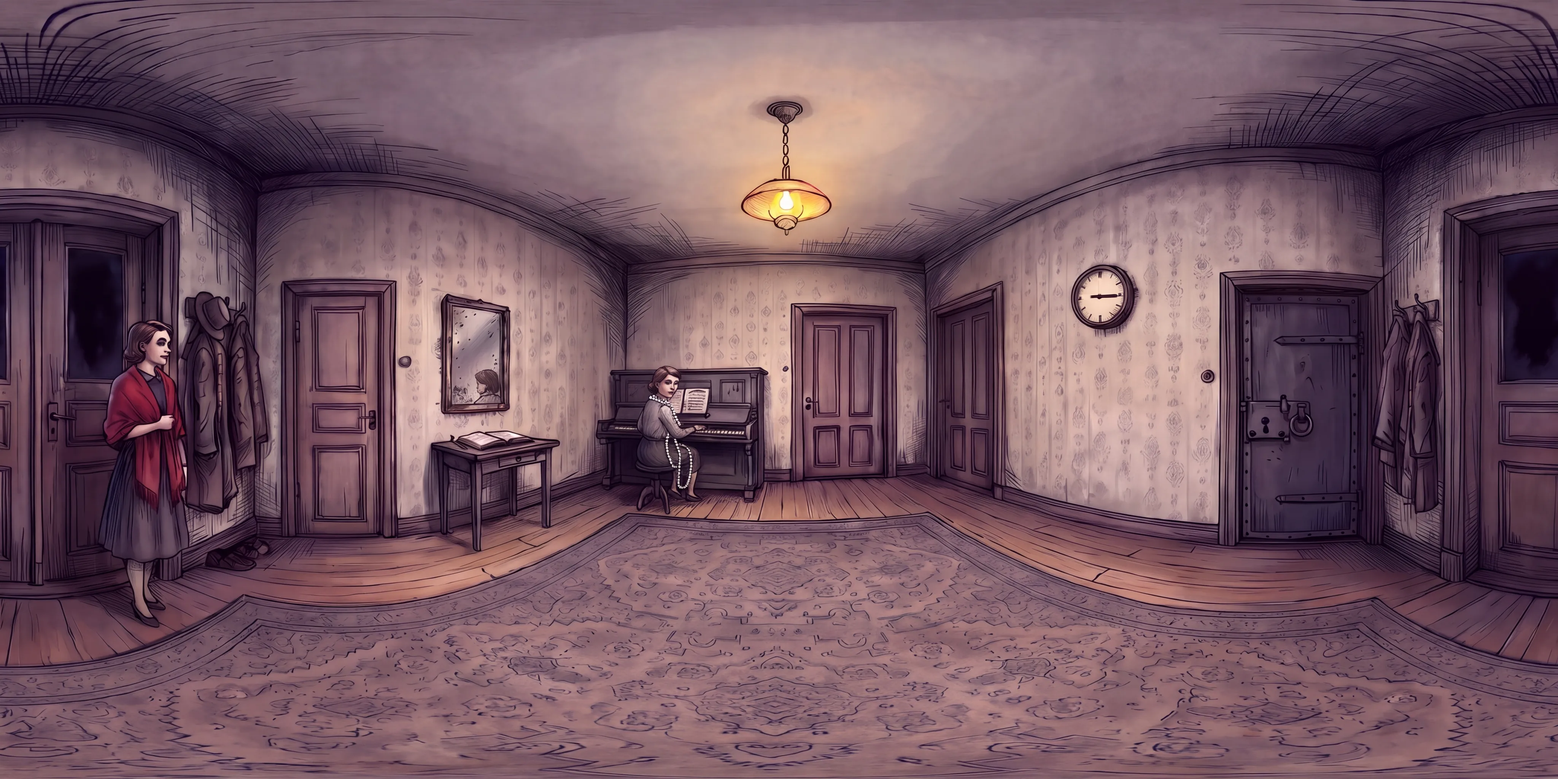
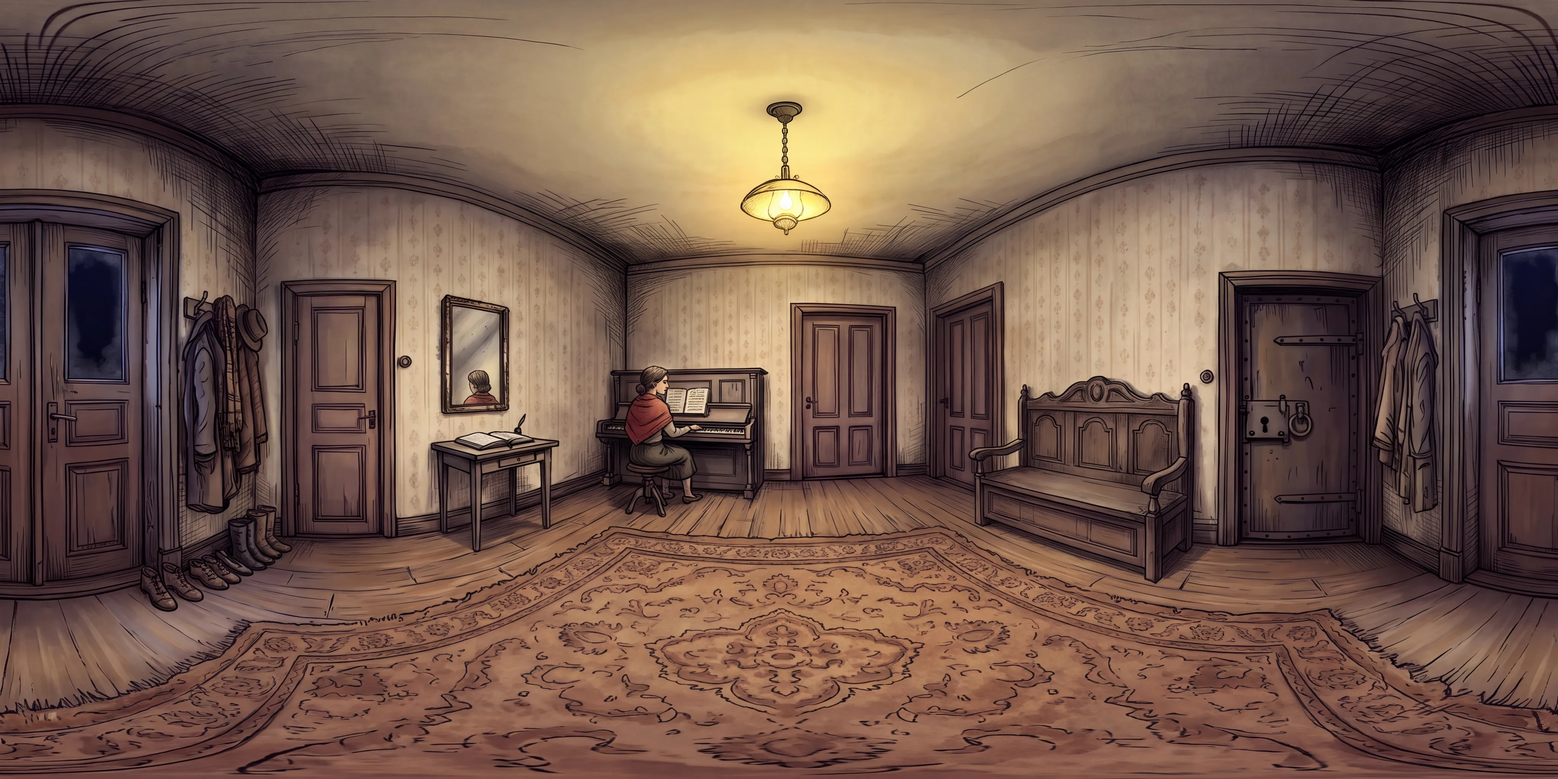
En gäst i varje minnesrum, inga klockor utom golvuret, och hallen som foto
Salongen blir ett fjärde rum i minnet. Kvinnan i röd sjal spelar piano i
hallen och kvinnan med pärlhalsband sitter i salongen. Klockorna tas bort
ur minnet utom golvuret, eftersom Gemini inte kan rita klockor. Hallen får
en hallsoffa mellan köksdörren och källardörren (Jonas 2026-11-20).

Hallen finns nu i tusch och foto, i nuet och i minnet. De tidigare
stilproven tas bort ur testsidan.

Claude-Session: https://claude.ai/code/session_01X82C4CqheV7jTaXH9cVkV3

diff --git a/supabase/functions/game/flashback.test.ts b/supabase/functions/game/flashback.test.ts
@@ -123,10 +123,10 @@ test('sparade rum läses, och det gamla formatet med gäster ersätts', () => {
 
 const FULL = getMission('den-femte-gasten')!;
 
-test('i Den femte gästen minns tre rum, så två spelare ser alla och tio delar dem fyra, tre och tre (Jonas 2026-11-20)', () => {
+test('i Den femte gästen minns fyra rum, så två spelare ser alla och tio delar dem tre, tre, två och två (Jonas 2026-11-20)', () => {
   const step = FULL.steps.find((candidate) => candidate.id === 'rummen-minns') as FlashbackStep;
   const places = listPlaces(FULL);
-  assert.deepEqual(step.rooms.map((room) => room.place), ['B', 'C', 'D']);
+  assert.deepEqual(step.rooms.map((room) => room.place), ['B', 'F', 'C', 'D']);
   const playAll = (participantIds: string[], order: [string, string][]) => {
     const started = turnHands({ flashback: startFlashback(step), step, minutes: NINE_FIFTEEN, nowMs: 0 });
     assert.ok('flashback' in started);
@@ -138,15 +138,15 @@ test('i Den femte gästen minns tre rum, så två spelare ser alla och tio delar
     }
     return flashback;
   };
-  const two = playAll(['p0', 'p1'], [['p0', 'B'], ['p1', 'D'], ['p0', 'C']]);
-  assert.deepEqual(two.seenPlaces, ['B', 'D', 'C']);
+  const two = playAll(['p0', 'p1'], [['p0', 'B'], ['p1', 'D'], ['p0', 'C'], ['p1', 'F']]);
+  assert.deepEqual(two.seenPlaces, ['B', 'D', 'C', 'F']);
   assert.equal(describeFlashback({ flashback: two, step, places, viewerId: 'p1', participantIds: ['p0', 'p1'] }).choice, 'done');
   const ten = Array.from({ length: 10 }, (_, index) => `p${index}`);
-  const full = playAll(ten, ten.map((playerId, index) => [playerId, (['B', 'C', 'D'] as const)[index % 3]]));
+  const full = playAll(ten, ten.map((playerId, index) => [playerId, (['B', 'F', 'C', 'D'] as const)[index % 4]]));
   const hall = describeFlashback({ flashback: full, step, places, viewerId: 'p0', participantIds: ten });
-  // Fyra i hallen ser en bit var, så att kvinnan vid dörren och kvinnan vid pianot hamnar hos olika spelare.
+  // Tre i hallen ser en bit var av hallens tre.
   assert.deepEqual(hall.myRooms.map((room) => [room.place.name, room.pieces.length]), [['Hallen', 1]]);
-  assert.equal(full.choices.filter((choice) => choice.place === 'B').length, 4);
+  assert.equal(full.choices.filter((choice) => choice.place === 'B').length, 3);
 });
 const MISSION: Mission = { ...FULL, steps: [STEP, { id: 'slut', type: 'scene', text: 'Slut.' }] };
 const PLAYERS: PlayerRecord[] = ['Anna', 'Bo', 'Cia'].map((name, index) => ({ id: `p${index}`, gameId: 'g', userId: `u${index}`, name, isLeader: index === 0, joinedAtMs: index }));

diff --git a/supabase/functions/game/reading.test.ts b/supabase/functions/game/reading.test.ts
@@ -26,11 +26,11 @@ function start(): GameState {
   return readState(startGame({ state: createInitialState(), mission: MISSION, players: PLAYERS, starter: ANNA, leaderPlays: true, minutes: 60, nowMs: 0 }));
 }
 
-/** Gruppen ställer golvuret, ser alla tre rummen och låter minnet blekna. */
+/** Gruppen ställer golvuret, ser alla fyra rummen och låter minnet blekna. Anna tar salongen som fjärde rum. */
 function seeTheMemory(state: GameState): GameState {
   let next = readState(walkThroughDoor({ state, mission: MISSION, player: ANNA, placeId: 'F', nowMs: 0 }));
   next = readState(turnClock({ state: next, mission: MISSION, players: PLAYERS, player: ANNA, minutes: NINE_FIFTEEN, nowMs: 0 }));
-  for (const [player, placeId] of [[ANNA, 'B'], [BO, 'C'], [CIA, 'D']] as const) {
+  for (const [player, placeId] of [[ANNA, 'B'], [BO, 'C'], [CIA, 'D'], [ANNA, 'F']] as const) {
     next = readState(chooseFlashbackRoom({ state: next, mission: MISSION, players: PLAYERS, player, placeId, nowMs: 0 }));
   }
   return readState(fadeFlashback({ state: next, mission: MISSION, players: PLAYERS, nowMs: 3 * MINUTE_MS }));

diff --git a/src/testsida/roundImageCard.ts b/src/testsida/roundImageCard.ts
@@ -17,11 +17,8 @@ import type { Log, Report } from './report.ts';
 const ROUND_IMAGES = [
   { name: 'Hallen, tusch (Gemini)', file: 'rundbilder/hallen-tusch.webp' },
   { name: 'Hallen, tusch, minnet 1962 (Gemini)', file: 'rundbilder/hallen-tusch-1962.webp' },
-  { name: 'Hallen, målad illustration (Gemini)', file: 'rundbilder/hallen-malad.webp' },
-  { name: 'Hallen, foto i natt (Gemini)', file: 'rundbilder/hallen-natt.webp' },
-  { name: 'Hallen, målning (Gemini)', file: 'rundbilder/hallen-malning.webp' },
-  { name: 'Hallen, 60-talsfoto (Gemini)', file: 'rundbilder/hallen-sextiotal.webp' },
-  { name: 'Hallen, foto i dagsljus (Gemini)', file: 'rundbilder/hallen-foto.webp' },
+  { name: 'Hallen, foto (Gemini)', file: 'rundbilder/hallen-foto.webp' },
+  { name: 'Hallen, foto, minnet 1962 (Gemini)', file: 'rundbilder/hallen-foto-1962.webp' },
   { name: 'Största källaren (Gemini)', file: 'rundbilder/kallare-storst.webp' },
   { name: 'Stora källaren (Gemini)', file: 'rundbilder/kallare-stor.webp' },
   { name: 'Lilla källaren (Gemini)', file: 'rundbilder/kallare.webp' },

diff --git a/src/config.ts b/src/config.ts
@@ -6,4 +6,4 @@ export const SUPABASE_PUBLIC_KEY = 'sb_publishable_aa--NTfRkU6vqDZUqgXMPw_o2LBJh
 
 // Visas på sidan och i felsökningsloggen, så att det syns om mobilen kör en
 // gammal sida ur cachen. Höjs vid varje ändring av webbsidan.
-export const VERSION = '2026-11-20.74';
+export const VERSION = '2026-11-20.75';

diff --git a/docs/koncept.md b/docs/koncept.md
@@ -264,7 +264,7 @@ Det är de enda tillfällena då gruppen splittras på riktigt, och de blir star
 
 Huset är en rektangel med en våning och källare. Övervåningen är borttagen (Jonas 2026-11-20). Ytterdörren leder in i hallen, mitt på husets framsida. Rakt fram ligger salongen, till vänster sovrummet och till höger köket. Sovrummet var tidigare ett bibliotek, och byrån med tidningsurklippen står kvar där (Jonas 2026-11-20). Källaren ligger under huset, med det dolda rummet bakom.
 
-- **Hallen.** Dörren till salongen sitter längst till höger i hallens bortre vägg, med pianot till vänster om den. Dörren till köket sitter strax till höger om salongsdörren. Dörren till sovrummet sitter långt ner på vänstra väggen. I högra hörnet vid ytterväggen ligger källartrappan, bakom den låsta källardörren (Jonas 2026-11-18). Väggen vid källardörren går hela vägen från köket ner till ytterväggen, och dörren sitter längst ner i den (Jonas 2026-11-20). Trappan fyller utrymmet mellan väggen, köket och ytterväggen och är en vinkeltrappa: den börjar längst ner vid källardörren, går längs ytterväggen och svänger i hörnet (Jonas 2026-11-20). Trappan upp till övervåningen är borttagen (Jonas 2026-11-20).
+- **Hallen.** Dörren till salongen sitter längst till höger i hallens bortre vägg, med pianot till vänster om den. Dörren till köket sitter strax till höger om salongsdörren. Dörren till sovrummet sitter långt ner på vänstra väggen. I högra hörnet vid ytterväggen ligger källartrappan, bakom den låsta källardörren (Jonas 2026-11-18). Väggen vid källardörren går hela vägen från köket ner till ytterväggen, och dörren sitter längst ner i den (Jonas 2026-11-20). Trappan fyller utrymmet mellan väggen, köket och ytterväggen och är en vinkeltrappa: den börjar längst ner vid källardörren, går längs ytterväggen och svänger i hörnet (Jonas 2026-11-20). Trappan upp till övervåningen är borttagen (Jonas 2026-11-20). Mellan köksdörren och källardörren står en hallsoffa i mörkt trä med hög rygg. Den har ingen funktion i spelet (Jonas 2026-11-20).
 - **Salongen i mitten.** Alla rum nås från hallen. Salongen har dessutom en dörr till sovrummet och en till köket (Jonas 2026-11-20). Dörren till sovrummet sitter i salongens vänstra vägg och dörren till köket i den högra, båda längst bort från hallen (Jonas 2026-11-20).
 - **Dörrarna i rundbilderna.** I rundbilderna är alla rum kvadratiska, så att varje vägg blir en fjärdedel av varvet (Jonas 2026-11-18). Dörrarna ska sitta på rätt ställe i rummen enligt planlösningen, och i beskrivningen till Gemini anges varje dörr med vägg och läge, till exempel vänstra väggen nära hörnet mot ytterväggen (Jonas 2026-11-18). Gemini följer inte alltid beskrivningen exakt, så de tryckbara dörrarna placeras där de hamnade i bilden, och en bild med en dörr på fel vägg tas fram på nytt.
 
@@ -275,7 +275,7 @@ Varje plats finns i två tider: som den är nu och som den var kvällen 1962 (Jo
 - **Nu.** När en spelare går till en plats ser hon platsen som den är i kväll, med det som gruppen har hittat där. Det som en gång har hittats ligger kvar och går att se igen, till exempel urklippen i sovrummet (se Textvyn och rumsvyn nedan). Gruppen går fortfarande igenom uppgifterna i ordning, men behöver inte minnas allt.
 - **Klockan.** Alla klockor i huset stannade kvart över nio, när ljuset slocknade 1962. Det finns en enda klocka att vrida, golvuret i salongen (Jonas 2026-11-17). Den som står vid det drar visarna med fingret. Att vrida mobilen som en ratt prövades men togs bort (Jonas 2026-11-18). Visarna hakar i var femte minut, så att det går att träffa rätt. Står de på 21.15 minns hela huset, för alla spelare samtidigt, och alla platser visas som de var då. Vrids de till vilken annan tid som helst är huset tillbaka i nu (Jonas 2026-11-17). Golvuret står i salongens lista när någon har hittat det, och visarna går att vrida när som helst, också innan gruppen har läst urklippen och efter att uppgiften är klar. Står de på 21.15 innan berättelsen har kommit dit minns huset ändå, och uppgiften räknas (Jonas 2026-11-18). Efter att uppgiften är klar flyttas bara visarna.
 - **Minnet syns.** Minnesbilden är sepiatonad, kornig och flimrar lite, med en rad överst som säger platsen och tiden. Alla spelare ser att huset minns, var de än är.
-- **Ett rum var i minnet.** När huset minns väljer varje spelare vilket rum hon ska vara i, bland dem som finns kvar, och hon stannar där tills minnet bleknar (Jonas 2026-11-17). Nästa gång väljer alla på nytt, så att spelarna kan byta rum med varandra. Är spelarna fler än rummen fylls rummen jämnt: ett rum går bara att välja om inget annat rum har färre spelare i sig. Med sju spelare och tre rum blir det alltså tre i ett av rummen och två i de andra, aldrig fyra i ett (Jonas 2026-11-17, rummen Jonas 2026-11-20). Är spelarna färre än rummen tar någon ett tomt rum till när alla har valt, och ser båda rummen i samma minne. Så ser gruppen alla rum på en gång även med två spelare (Jonas 2026-11-18).
+- **Ett rum var i minnet.** När huset minns väljer varje spelare vilket rum hon ska vara i, bland dem som finns kvar, och hon stannar där tills minnet bleknar (Jonas 2026-11-17). Nästa gång väljer alla på nytt, så att spelarna kan byta rum med varandra. Är spelarna fler än rummen fylls rummen jämnt: ett rum går bara att välja om inget annat rum har färre spelare i sig. Med sju spelare och fyra rum blir det alltså två i tre av rummen och en i det fjärde, aldrig tre i ett (Jonas 2026-11-17, rummen Jonas 2026-11-20). Är spelarna färre än rummen tar någon ett tomt rum till när alla har valt, och ser båda rummen i samma minne. Så ser gruppen alla rum på en gång även med två spelare (Jonas 2026-11-18).
 - **Minnet bleknar.** En nedräkning visar hur länge minnet varar, så att gruppen kan planera (Jonas 2026-11-18). Efter några minuter, tre i första versionen, bleknar minnet av sig självt, och huset är tillbaka i nu (Jonas 2026-11-17). Trycker spelledaren Hoppa över uppgiften medan huset minns bleknar minnet direkt, uppgiften räknas som klar och gruppen slipper vänta ut nedräkningen (Jonas 2026-11-18). Någon får gå tillbaka till golvuret och vrida igen. Visarna går då tillbaka till tiden de hade från början, så att gruppen måste vrida fram 21.15 på nytt (Jonas 2026-11-17). Medan huset minns går det inte att se det som finns i nuet, till exempel urklippen i sovrummet. Det ger press och gör att gruppen behöver bestämma tillsammans när den ska resa och vart.
 - **Vägen till klockan.** Huvudartikeln i Tidningsurklippen säger att golvuret i salongen stannade kvart över nio den kvällen och inte har gått sedan dess, och att ingen vet var de fem var just då. Golvuret i rundbilden står på en annan tid, så den som har läst artikeln ser att något inte stämmer. Den som kör fast får uppgiftens vanliga ledtrådar.
 
@@ -329,7 +329,7 @@ Akt 1 är uppgift 1–2, akt 2 är uppgift 3–7 och akt 3 är uppgift 8–9.
 
 **2. Tidningsurklippen.** Urklippen ligger i byrån i sovrummet och hittas i rundbilden (Jonas 2026-11-20). Huvudartikeln från 1962 berättar att fem ungdomar gick in i huset men bara fyra kom ut. Den nämner inga namn och har inga bilder, men säger att golvuret stannade kvart över nio (Jonas 2026-11-17). Artikeln är daterad måndagen den 29 oktober 1962 och säger att seansen var i lördags, så att gruppen kan hitta rätt datum i gästboken (Jonas 2026-11-18). Runt den finns andra urklipp, som en förlovningsannons, en dödsruna, en annons för en optiker och en notis från en pipklubb. Varje urklipp säger något om en eller två av gästerna, men bara halva kopplingen: det ena ger ett namn, det andra ett kännetecken som syns, till exempel en röd sjal eller ett pärlhalsband. Namnen på alla fem står i gästboken i hallen, de fem sista som skrev i den (Jonas 2026-11-17). Gästboken har fler namn från tidigare kvällar, grupperade per datum, så att det kostar mer att gissa. Varje datum har fem namn, så att datumet inte syns direkt. De fem står under samma datum (Jonas 2026-11-18). Urklippen delas ut så att ingen har alla, och två spelare måste lägga ihop sina för att få en hel koppling. En gäst finns bara till hälften i urklippen och till hälften på en tavla i köket, så att gruppen måste gå runt i huset och inte bara läsa (Jonas 2026-11-17). Elsa är systerdotter till fröken Agnes Wall, som ägde huset. Det förklarar tavlan och varför seansen hölls just där. Dödsrunan ger namnet och tavlan, ett porträtt av en ung kvinna i röd sjal med texten "Min kära systerdotter, sommaren 1961.", ger sjalen (Jonas 2026-11-18). Urklippen har ingen knapp för att man har läst. De delas ut när spelet startar och går att läsa direkt, också före seansen (Jonas 2026-11-18). Den som lämnar urklippen med Tillbaka har läst dem, också om det var innan berättelsen kom dit. Brädet börjar kalla först när gruppen har sett Rummen minns och alla har läst urklippen, i vilken ordning som helst (Jonas 2026-11-18). Golvuret går att ställa när som helst, också före urklippen (Jonas 2026-11-18). Spelledaren ser inte vilka som inte har läst eller vad brädet väntar på, eftersom hon kanske inte heller vet lösningen och det skulle bli för uppenbart (Jonas 2026-11-18). Hennes Hoppa över uppgiften räknar alla som lästa och hoppar över Rummen minns med ett tryck, så att gruppen inte fastnar om någon aldrig går till byrån. I urklippen ger Ge ledtråd först att byrån och golvuret finns i huset, om ingen har hittat dem. Sedan kommer Alla har inte läst tidningsurklippen, om någon inte har läst, därefter Rummen minns ledtrådar så länge golvuret inte är klart, och sist urklippens skrivna ledtrådar. Den första av dem är att de som var med på seansen 1962 kanske finns i urklippen (Jonas 2026-11-18). Urklippen står i sovrummets lista när någon har hittat byrån. De visas på skärmen. Utskrift prövas om skärmen inte räcker (Jonas 2026-11-17). Det ersätter förslaget med läsregler som Vera viskar.
 
-**3. Rummen minns.** Urklippen leder till golvuret (se Kedjan genom akt 1). När någon har vridit tillbaka tiden väljer spelarna var sitt rum och ser minnet (se Ett rum var i minnet). Rummen är hallen, köket och sovrummet (Jonas 2026-11-20). Källaren sparas till uppgift 7. I hallen står en gäst vid ytterdörren och en annan sitter vid pianot, så att alla fyra gästerna syns i tre rum (Jonas 2026-11-20). I minnet syns en gäst utan namn, med ett kännetecken som en röd sjal eller ett pärlhalsband, och en detalj som en stannad klocka. Inga röster säger några namn (Jonas 2026-11-17). Gästerna syns rakt upp och ner. De står någonstans i rummet och tittar, eller gör något vardagligt, så att inget annat än kännetecknet drar uppmärksamheten (Jonas 2026-11-18). Vem gästen är vet gruppen bara från Tidningsurklippen, så spelarna måste berätta för varandra vad de ser och lägga ihop det med vad de har läst. I minnet syns bara fyra av de fem. Den som inte finns i något rum är den som aldrig kom ut. Gruppen svarar vid ouijabrädet. Andra gången gruppen håller seansen bokstaverar skenet VEM ÄR JAG, på samma sätt som HJÄLP MIG. Gruppen svarar genom att skriva namnet, som man i verkligheten hade sagt det rakt ut (Jonas 2026-11-17). Frågan står kvar, så gruppen kan svara när den vet. Brädet kallar på gruppen: när den har sett alla tre rummen i minnet, minnet har bleknat och alla har läst urklippen, börjar planchetten i salongens rundbild röra sig av sig själv, ouijabrädet i salongens lista skimrar, och i de andra rummen får spelarna en berättartext om att planchetten hörs skrapa mot brädet i salongen, en gång, med knappen Ok (Jonas 2026-11-18). Knackningar i mobilerna togs bort, eftersom det var svårt att förstå vad de betydde (Jonas 2026-11-18). Rätt svar är Vera (Jonas 2026-11-17). Ett fel namn kostar tid, och varje fel kostar mer än det förra: 2, 4, 6 och 8 minuter. Vid svarsfältet står vad nästa fel kostar (Jonas 2026-11-18). Med bara fem namn i gästboken gick det annars att gissa sig fram för en låg kostnad. Vid två spelare tar någon ett rum till i samma minne (Jonas 2026-11-18). Vid fyra eller fler delar flera på ett rum och ser olika delar av det. Rummen visas som text tills mekaniken är provad och får sedan bilder från Gemini. Den första versionen, med röster och ett val per rum, var för lätt vid provspel.
+**3. Rummen minns.** Urklippen leder till golvuret (se Kedjan genom akt 1). När någon har vridit tillbaka tiden väljer spelarna var sitt rum och ser minnet (se Ett rum var i minnet). Rummen är hallen, salongen, köket och sovrummet, med en gäst i varje (Jonas 2026-11-20). Källaren sparas till uppgift 7. I hallen sitter kvinnan i röd sjal vid pianot, och i salongen sitter kvinnan med pärlhalsband vid bordet med ouijabrädet (Jonas 2026-11-20). I minnet syns en gäst utan namn, med ett kännetecken som en röd sjal eller ett pärlhalsband, och detaljer som fem par skor vid ytterdörren eller en kall kaffekopp. Golvuret i salongen är den enda klockan i minnet, eftersom Gemini inte kan rita klockor som visar rätt tid (Jonas 2026-11-20). Inga röster säger några namn (Jonas 2026-11-17). Gästerna syns rakt upp och ner. De står någonstans i rummet och tittar, eller gör något vardagligt, så att inget annat än kännetecknet drar uppmärksamheten (Jonas 2026-11-18). Vem gästen är vet gruppen bara från Tidningsurklippen, så spelarna måste berätta för varandra vad de ser och lägga ihop det med vad de har läst. I minnet syns bara fyra av de fem. Den som inte finns i något rum är den som aldrig kom ut. Gruppen svarar vid ouijabrädet. Andra gången gruppen håller seansen bokstaverar skenet VEM ÄR JAG, på samma sätt som HJÄLP MIG. Gruppen svarar genom att skriva namnet, som man i verkligheten hade sagt det rakt ut (Jonas 2026-11-17). Frågan står kvar, så gruppen kan svara när den vet. Brädet kallar på gruppen: när den har sett alla fyra rummen i minnet, minnet har bleknat och alla har läst urklippen, börjar planchetten i salongens rundbild röra sig av sig själv, ouijabrädet i salongens lista skimrar, och i de andra rummen får spelarna en berättartext om att planchetten hörs skrapa mot brädet i salongen, en gång, med knappen Ok (Jonas 2026-11-18). Knackningar i mobilerna togs bort, eftersom det var svårt att förstå vad de betydde (Jonas 2026-11-18). Rätt svar är Vera (Jonas 2026-11-17). Ett fel namn kostar tid, och varje fel kostar mer än det förra: 2, 4, 6 och 8 minuter. Vid svarsfältet står vad nästa fel kostar (Jonas 2026-11-18). Med bara fem namn i gästboken gick det annars att gissa sig fram för en låg kostnad. Vid två spelare tar någon ett rum till i samma minne (Jonas 2026-11-18). Vid fyra eller fler delar flera på ett rum och ser olika delar av det. Rummen visas som text tills mekaniken är provad och får sedan bilder från Gemini. Den första versionen, med röster och ett val per rum, var för lätt vid provspel.
 
 **4. Pianot.** En spelare hör en melodi i sin mobil och ingen annan hör den. De övriga har några tangenter var. Lyssnaren nynnar och dirigerar, och gruppen spelar melodin ton för ton i rätt ordning. Ett fel ger en falsk ton och ett nytt försök. Pianot står i hallen, och i minnet av hallen sitter en av gästerna vid det med noterna uppslagna (Jonas 2026-11-20). Melodin är den som spelades när ljuset slocknade 1962, och när gruppen spelar den kommer Vera så nära att hon kan ta över en mobil (Jonas 2026-11-18). I den första versionen spelas melodin i stället högt från en spelares mobil, så att alla hör den, eftersom lyssnaren ändå skulle höja volymen hellre än att nynna. Också den som spelar melodin har tangenter, så att ingen förlorar pianot hon kunde spela på innan (Jonas 2026-11-18). När Vera har svarat slår pianot an en ensam ton, och sedan kallar det på gruppen som brädet: det skimrar i hallens lista, och i de andra rummen får spelarna en berättartext om att det hörs en ensam ton från pianot. Den kommer när gruppen lämnar ouijabrädet, en gång, med knappen Ok (Jonas 2026-11-18). Den som spelar melodin väljs som en framträdande roll, så att det blir någon annan än den som gick ner i källaren eller hade en annan stor roll. Melodin går att spela hur många gånger som helst. Pianot har åtta vita tangenter från E till E, så att alla fönster får några av melodins toner (Jonas 2026-11-18). Var och en har fyra intilliggande vita tangenter, till exempel E F G A, G A B C eller B C D E, och fönstren sprids så att varje tangent finns hos någon. Vem som får vilket fönster lottas. Tangenterna ritas som en bit av ett riktigt piano, med de svarta tangenterna emellan. Pianot visas i fullskärm som ouijabrädet, utan rubrik och text (Jonas 2026-11-18). Svarta tangenter i kanterna syns till hälften, som på ett riktigt piano. De svarta går att trycka på och låter, men finns inte i melodin och räknas inte (Jonas 2026-11-18). Melodin är sju toner, E A B C B G A, i tretakt och lugnt tempo. Tangenterna heter E F G A B C D E, med B och inte H (Jonas 2026-11-18). Gruppen får spela som den vill. Inget säger till om en fel ton, och en ton låter bara i mobilen som spelade den. Uppgiften är klar när de senaste sju tonerna som spelats är melodin (Jonas 2026-11-18). Pianot står i hallens lista när någon har hittat det och går att spela på även innan berättelsen har kommit dit. Då har alla tangenter, eftersom ingen spelar melodin än. Den som har tur kan alltså spela melodin tidigt, och då räknas den (Jonas 2026-11-18). Tonerna görs i mobilen, utan ljudfiler.
 

diff --git a/docs/rundbilder-prov.md b/docs/rundbilder-prov.md
@@ -181,3 +181,23 @@ känslan håller (Jonas 2026-11-20).
   stället för siffror, och en överflödig visare målades bort för hand i
   efterhand, så att klockan visar kvart över nio. Ansiktena blir lite
   grövre för varje redigering.
+
+## En gäst per rum, utan klockor, och hallen som foto igen
+
+Salongen blev ett fjärde rum i minnet, med en gäst i varje rum. Kvinnan i röd
+sjal spelar piano i hallen. Klockorna togs bort ur alla rum utom salongen,
+eftersom Gemini inte kan rita klockor, och hallen fick en hallsoffa mellan
+köksdörren och källardörren (Jonas 2026-11-20). Ägaren ville också pröva
+fotot igen, med mattan som i tuschbilden (Jonas 2026-11-20).
+
+- **Tusch.** Hallsoffan lades till genom att redigera tuschbilden. Minnet
+  togs fram genom att redigera den nya tuschbilden, så att allt ligger på
+  samma ställen. Det gick på första försöket.
+- **Foto.** Tre försök med bara text, med samma prompt som nattbilden och
+  mattan beskriven som i tuschbilden, gav fel dörrar: källardörren på bortre
+  väggen, en dörr för mycket eller sovrumsdörren vid fel hörn. I stället fick
+  Gemini tuschbilden och prompten att göra den till ett nattfoto av samma rum.
+  Då hamnade allt rätt. Fotot av minnet är en redigering av det fotot.
+- Kvinnan vid pianot ser äldre ut än en ung gäst i fotot av minnet.
+- Bilderna från de tidigare stilproven är borttagna ur testsidan. De finns
+  kvar i git-historiken.
